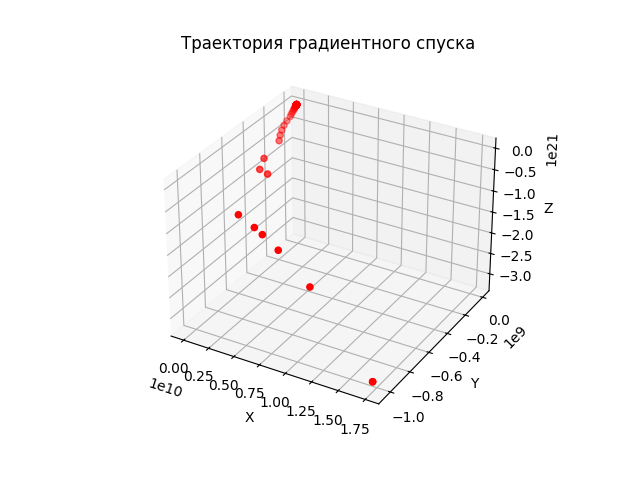
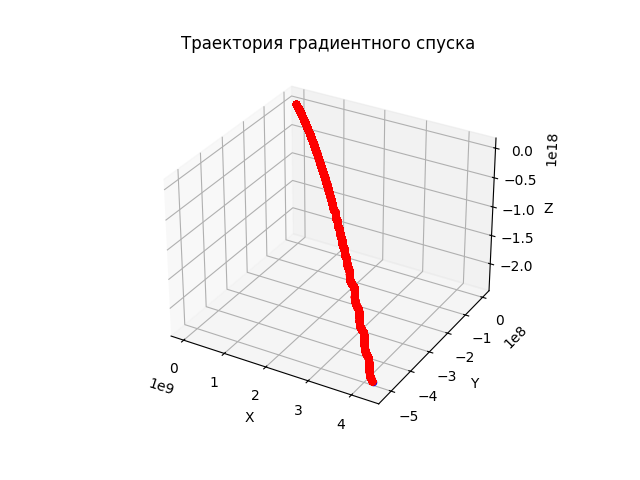
light weight baby

diff --git a/examples.py b/examples.py
@@ -8,6 +8,7 @@ import learning_rate_scheduling as lrs
 import stop_criteria as sc
 from scipy.optimize import root
 from gradient_descent import Find_gradient
+import math
 
 
 class Example:
@@ -15,17 +16,19 @@ class Example:
         fig = plt.figure()
         ax = fig.add_subplot(projection='3d')
 
+        anw = [x[len(x) - 1], y[len(y) - 1], z[len(z) - 1]]
+        ax.scatter(anw[0], anw[1], anw[2], c= 'b', marker = 'o')
         ax.scatter(x, y, z, c='r', marker='o')
-        # ax.scatter(*extremum, c = 'b', marker = 'o')
-
+        
         ax.set_xlabel('X')
         ax.set_ylabel('Y')
         ax.set_zlabel('Z')
         ax.set_title('Траектория градиентного спуска')
 
         plt.show()
-
+        plt.show()
         plt.savefig(file_name)
+        
 
     def __find_extremum(self, function, gradient):
         initial_guess = np.array([1.0, 1.0])
@@ -38,15 +41,17 @@ class Example:
                     gradient=None,
                     test_criterion=sc.Convergence(),
                     learning_rate_scheduling=lrs.PolynomialDecay(),
-                    file_name='/home/crusader/ml_yandex/Gradient-descent/graphics/first_ex.png'):
+                    file_name='/home/crusader/ml_yandex/Gradient-descent/graphics/first_ex.png',
+                    beginning_point=None) -> list:
         descent = gd.gradient_descent(dimension, function, gradient, test_criterion, learning_rate_scheduling)
-        descent.make_min_value()
+        descent.make_min_value(beginning_point)
         lst = [point for (_, point) in descent.get_log()]
         x = [point[0] for point in lst]
         y = [point[1] for point in lst]
         z = [function(point) for point in lst]
+        anw = [x[len(x) - 1], y[len(y) - 1], z[len(z) - 1]]
         self.__painting_3d(x, y, z, file_name)
-
+        return anw
 
 class Generate_test:
 
@@ -70,3 +75,8 @@ YOUR_FILE_NAME = os.path.dirname(os.path.abspath(__file__))
 if __name__ == "__main__":
     generator = Generate_test(10)
     generator.generate()
+    # runner = Example()
+    # print(runner.run_example(function = lambda x: 
+    #     (x[0]**2) * math.cos(1 / x[0]) + (x[0]**2) * 2 + 
+    #     (x[1]**2) * math.cos(1 / x[1]) + (x[1]**2) * 2, beginning_point = np.array([0.0000001, 0.0000001]))
+    #     )
